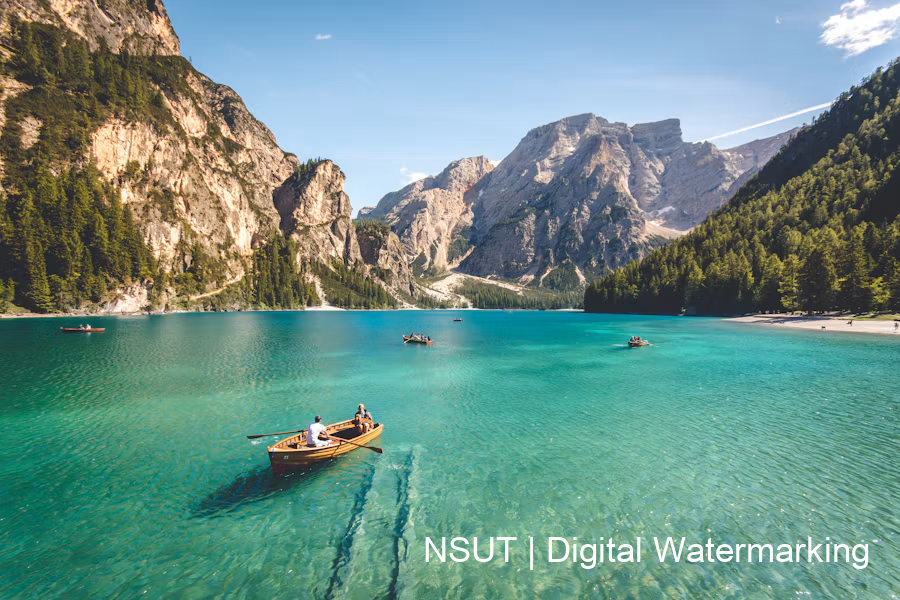
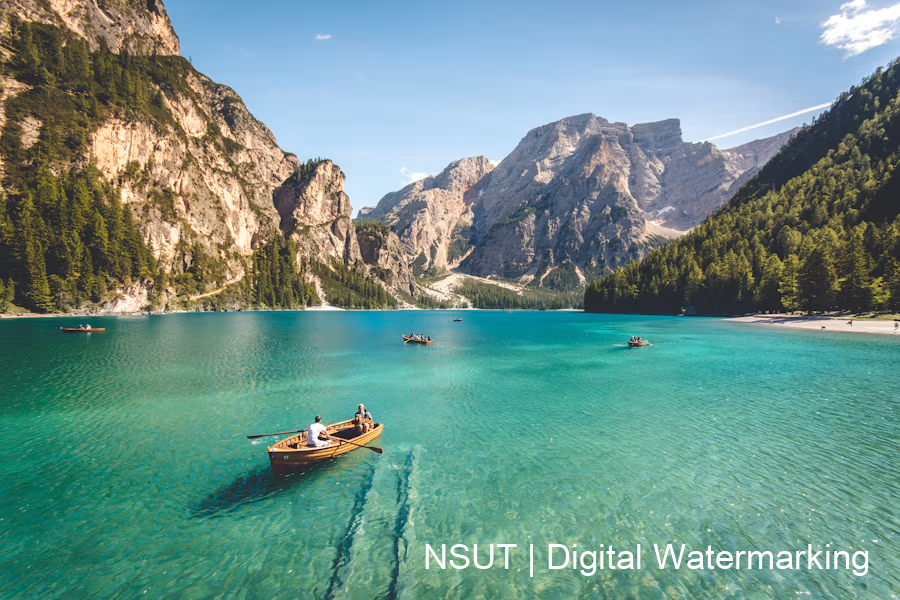
Final visible watermarking version

Changed region(s): [[0.5911, 0.9, 0.9644, 0.96], [0.4667, 0.9, 0.5911, 0.96]]

diff --git a/Practical_01_Digital_Watermarking/visible_watermark.py b/Practical_01_Digital_Watermarking/visible_watermark.py
@@ -1,49 +1,56 @@
 
 from PIL import Image, ImageDraw, ImageFont
 
-# Load original image
-image = Image.open(
-    "Practical_01_Digital_Watermarking/input/original.png"
-).convert("RGBA")
+# --------------------------------
+# PART 1: VISIBLE WATERMARK EMBEDDING
+# --------------------------------
 
-# Create a transparent layer
-watermark_layer = Image.new("RGBA", image.size, (0, 0, 0, 0))
+# Step 1: Load the original image
+image_path = "Practical_01_Digital_Watermarking/input/original.png"
+image = Image.open(image_path).convert("RGB")
 
-# Create drawing object
-draw = ImageDraw.Draw(watermark_layer)
-
-# Define watermark
+# Step 2: Define watermark text
 watermark_text = "NSUT | Digital Watermarking"
 
-# Load font
+# Step 3: Load font
 font = ImageFont.truetype(
     "/System/Library/Fonts/Supplemental/Arial.ttf", 35
 )
 
-# Calculate position
+# Step 4: Calculate watermark position
+draw = ImageDraw.Draw(image)
 width, height = image.size
-bbox = draw.textbbox((0, 0), watermark_text, font=font)
 
+bbox = draw.textbbox((0, 0), watermark_text, font=font)
 text_width = bbox[2] - bbox[0]
 text_height = bbox[3] - bbox[1]
 
 x = width - text_width - 30
 y = height - text_height - 30
 
-# Draw semi-transparent watermark
+# Step 5: Embed watermark
 draw.text(
     (x, y),
     watermark_text,
-    fill=(255, 255, 255, 128),
+    fill="white",
     font=font
 )
 
-# Blend watermark layer with original image
-watermarked_image = Image.alpha_composite(image, watermark_layer)
+# Step 6: Save watermarked image
+output_path = "Practical_01_Digital_Watermarking/output/visible_watermarked.png"
+image.save(output_path)
 
-# Save output
-watermarked_image.convert("RGB").save(
-    "Practical_01_Digital_Watermarking/output/transparent_watermarked.png"
-)
+print("Visible watermark embedded successfully!")
 
-print("Semi-transparent watermark embedded successfully!")
+# --------------------------------
+# PART 2: WATERMARK RETRIEVAL
+# --------------------------------
+
+# Step 7: Open the watermarked image
+watermarked_image = Image.open(output_path)
+
+# Step 8: Display the watermarked image
+watermarked_image.show()
+
+print("Watermarked image opened successfully.")
+print("Watermark text:", watermark_text)
